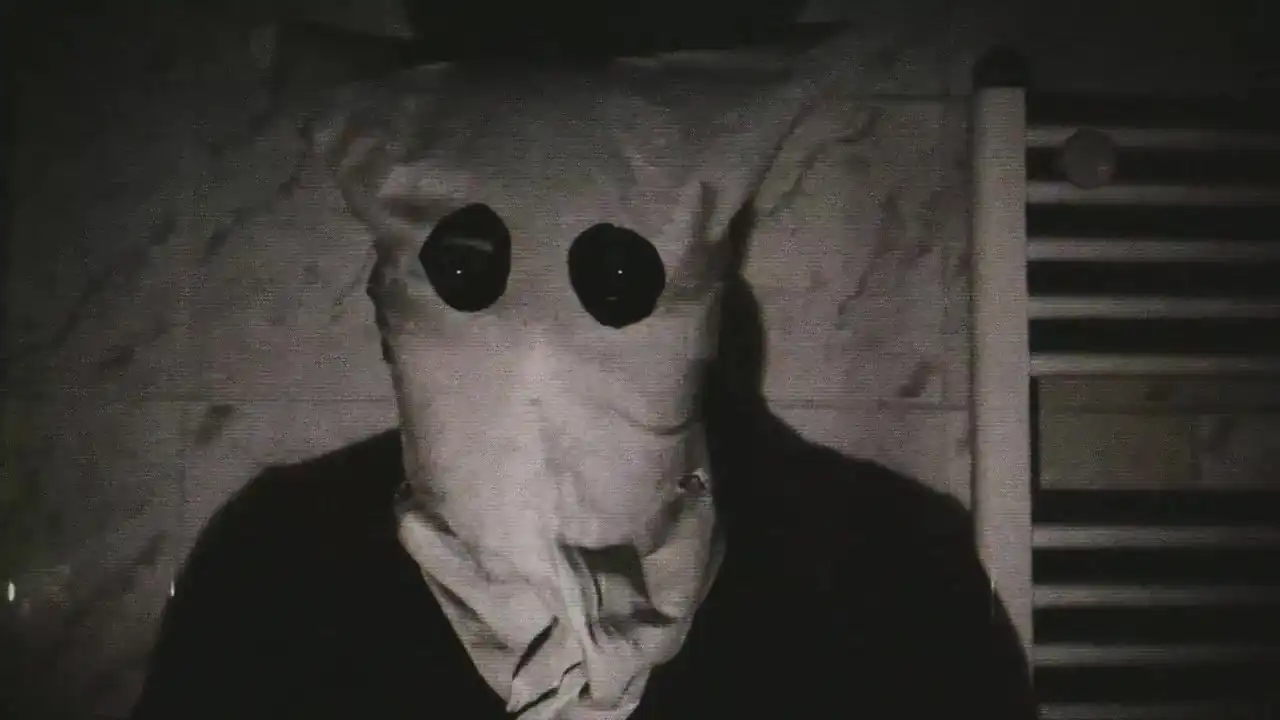
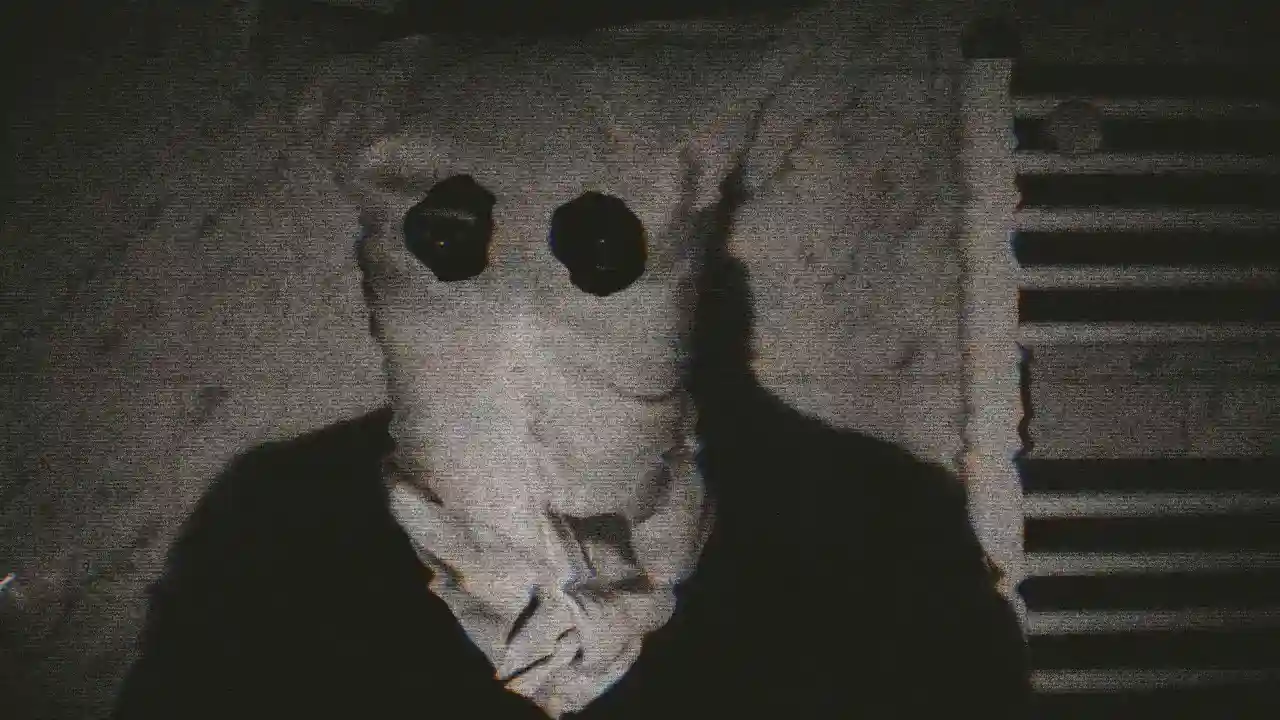
fix: update homepage hero poster

diff --git a/components/hero.vue b/components/hero.vue
@@ -48,7 +48,7 @@ let t = useThemeLocaleData<{
 .paranja {
   position: absolute;
   inset: 0;
-  background: oklch(12% 0 0 / 40%);
+  background: oklch(12% 0 0 / 60%);
 }
 
 .greeting {
